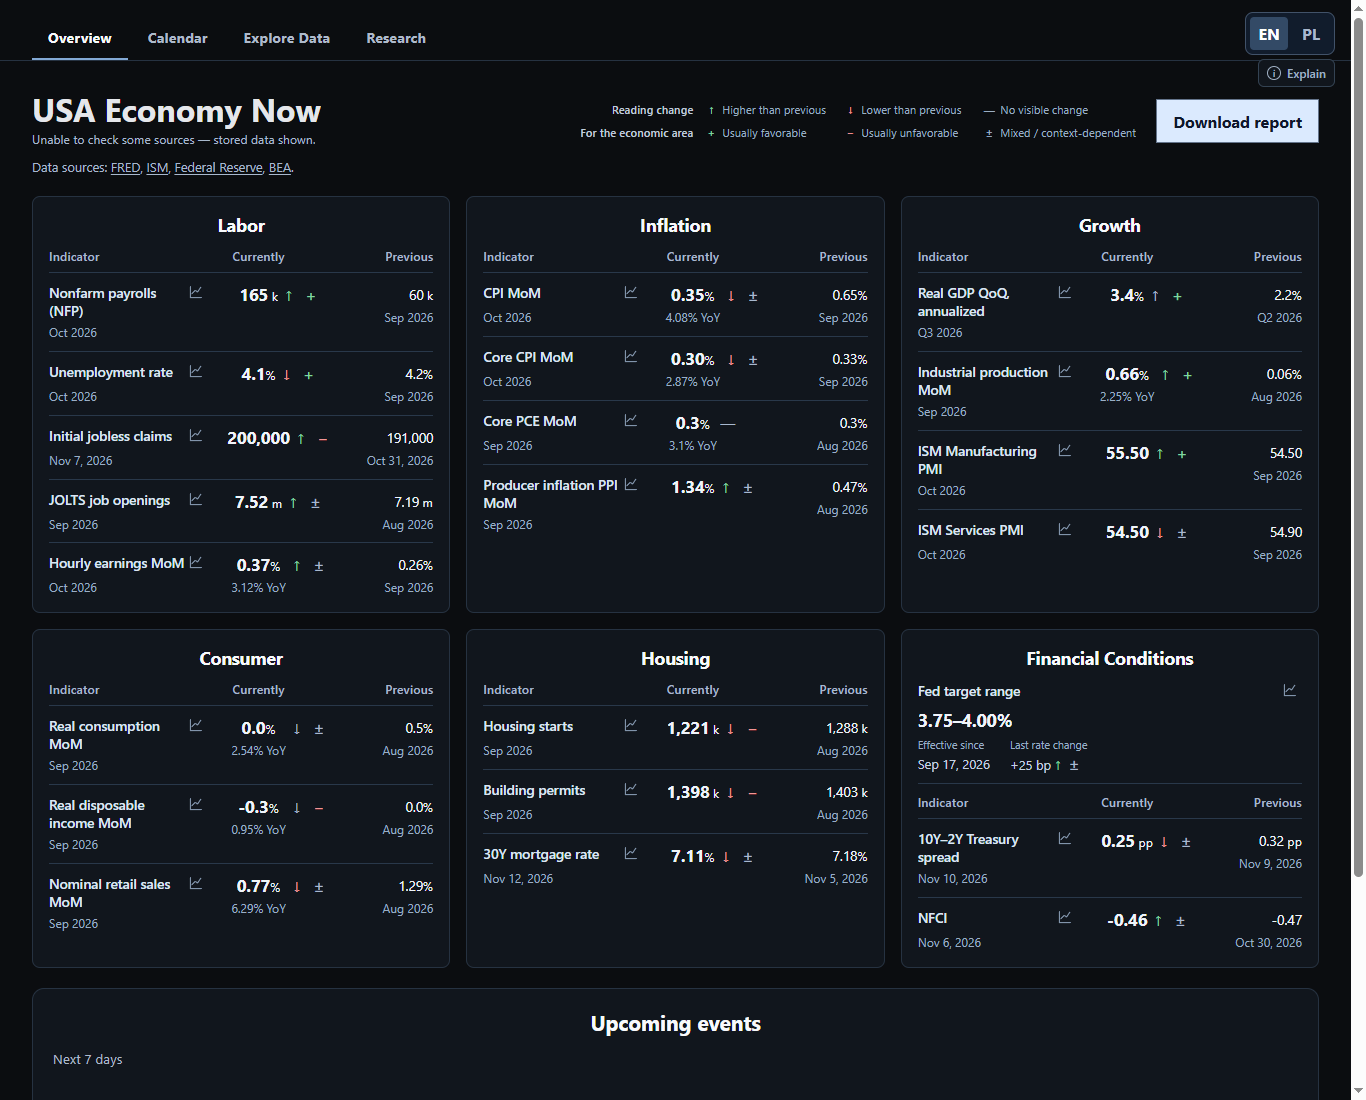
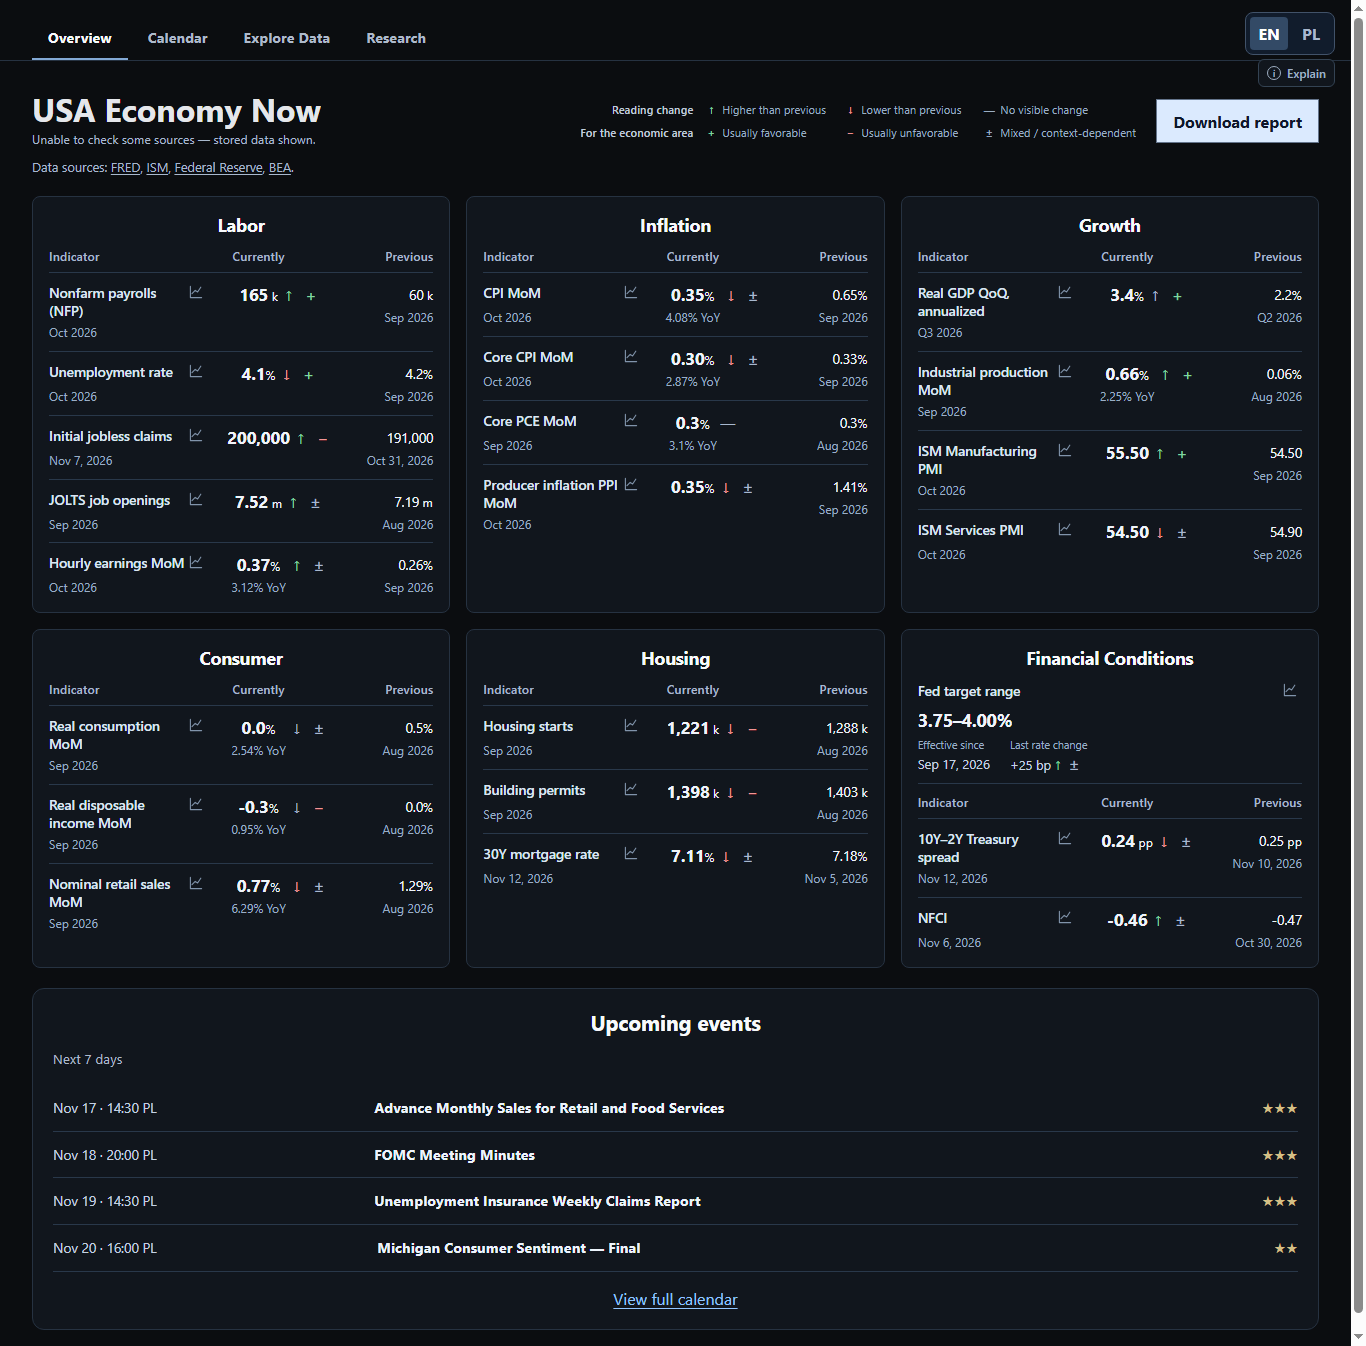
Show upcoming high-importance events in Overview screenshot

diff --git a/docs/screenshots/README.md b/docs/screenshots/README.md
@@ -42,3 +42,12 @@ the macro-detail layout update described above.
 The capture tab used hidden document visibility to avoid automatic refresh;
 non-GET and non-local requests were blocked. No such blocked request occurred
 during the two captures. New screenshots were visually reviewed before publication.
+
+## Overview framing update ? 17 November 2026
+
+`overview.png` was recaptured from the real local API/Vite at 1366 x 1346.
+The taller viewport retains all six domains and the Upcoming events panel,
+including the three-star Advance Monthly Sales for Retail and Food Services
+event on 17 November at 14:30 PL. No event, date, importance or source value
+was edited. Hidden-page visibility and request guards prevented refresh during
+capture; only normal GET responses were observed. Other images are unchanged.
